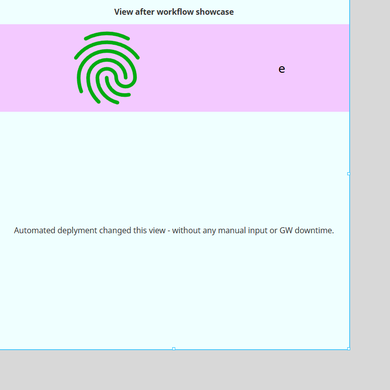
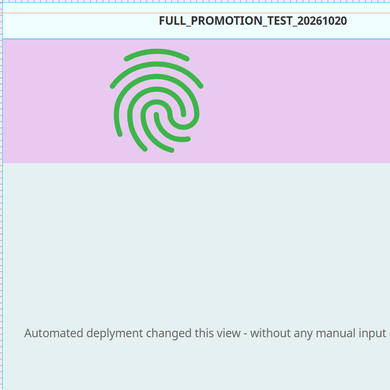
test: verify full resource promotion

Changed region(s): [[0.0, 0.0, 1.0, 1.0], [0.7077, 0.1538, 0.7385, 0.1846]]

diff --git a/projects/CICD_Test/ignition/script-python/testScript/code.py b/projects/CICD_Test/ignition/script-python/testScript/code.py
@@ -1,6 +1,5 @@
-def testScript(some_text):
-	# This function will return some text
-	return some_text
+def fullPromotionMarker():
+	return "FULL_PROMOTION_TEST_20261020"
 	
 def printSecondAscii(input_date):
 	seconds = system.date.getSecond(input_date)
